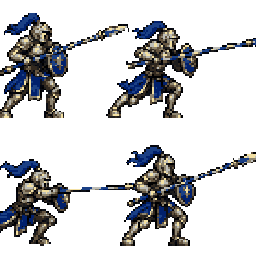
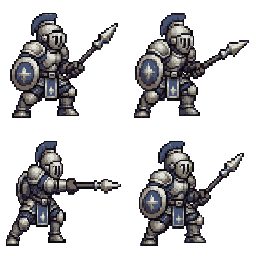
광신도·저주 인형·창병 정상본 교체 (빌드 23)
- 3종 모두 마젠타 배경 + 픽셀아트 톤으로 재생성 완료 (검은 박스·일러스트 톤 문제 해소)
- 창병은 창 길이를 줄이고 방패를 추가해 실루엣에서 본체 비중 확보 — 작아 보이던 문제 해결
- 신규 파이프라인(배경 자동 감지 + 0.82 정규화)으로 처리

diff --git a/unity/Assets/Editor/TankerEditorTools.cs b/unity/Assets/Editor/TankerEditorTools.cs
@@ -31,7 +31,7 @@ namespace Tanker
             PlayerSettings.productName = "Tanker";
             PlayerSettings.SetApplicationIdentifier(UnityEditor.Build.NamedBuildTarget.iOS, "com.dongmin1213.tanker");
             PlayerSettings.bundleVersion = "1.0.0";
-            PlayerSettings.iOS.buildNumber = "22";
+            PlayerSettings.iOS.buildNumber = "23";
             PlayerSettings.iOS.appleDeveloperTeamID = "3N2543B2FD";
             PlayerSettings.iOS.appleEnableAutomaticSigning = true;
             PlayerSettings.defaultInterfaceOrientation = UIOrientation.Portrait;
